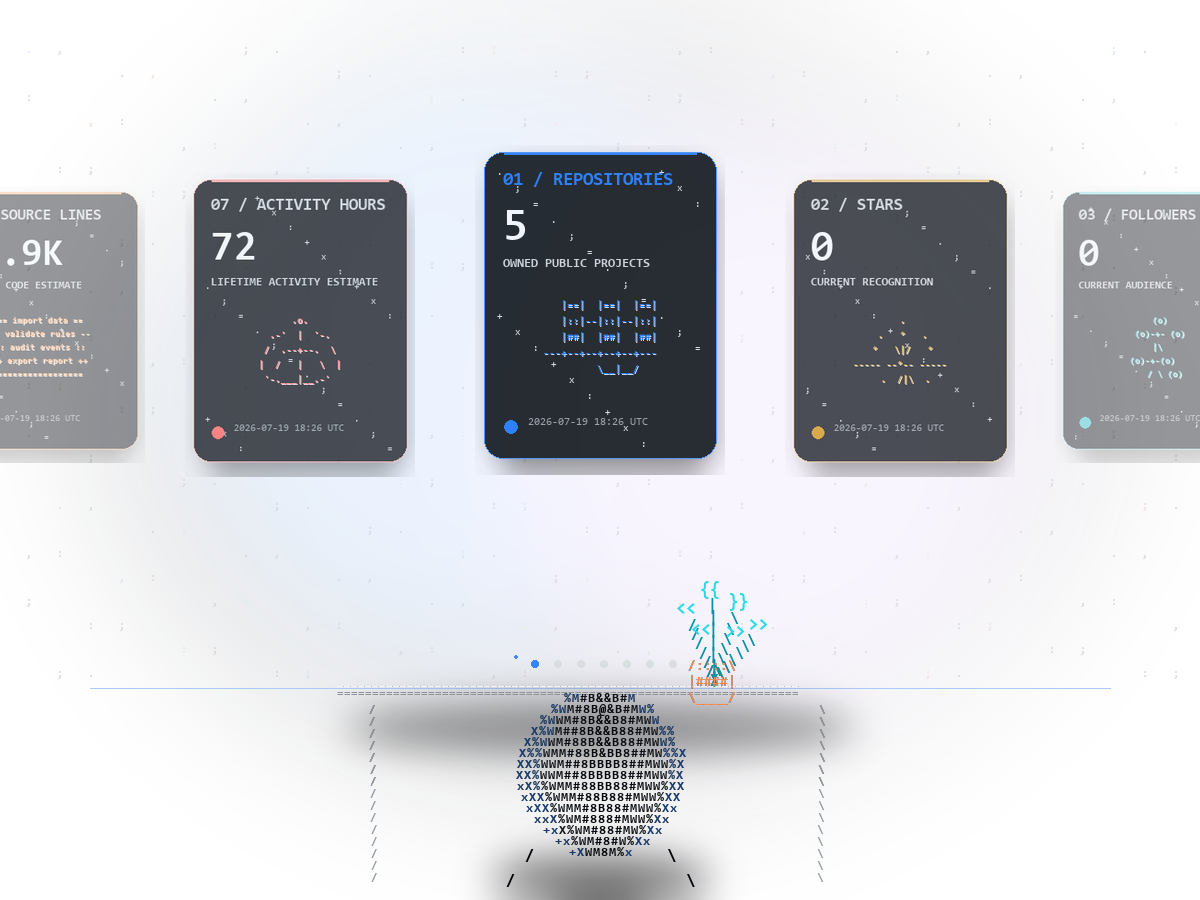
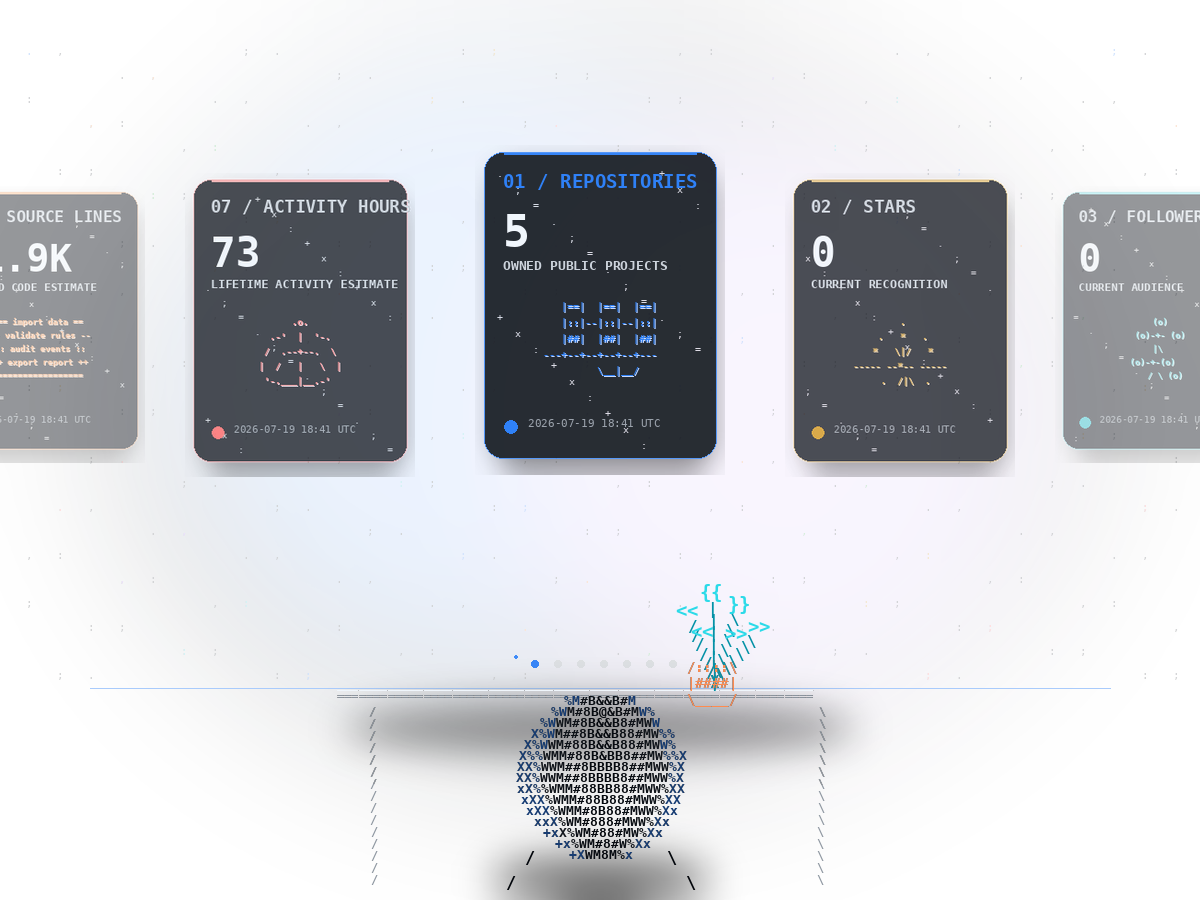
chore(profile): refresh live GitHub statistics

diff --git a/README.md b/README.md
@@ -32,10 +32,10 @@ No employer names, client names, branch/location names, private operational data
 <!-- LIVE_STATS_IMAGE_START -->
 <p align="center">
   <picture>
-    <source media="(prefers-reduced-motion: reduce) and (prefers-color-scheme: dark)" srcset="./assets/ascii-stats-gallery-color-dark-transparent-static.png?version=20260719182614-room-v1">
-    <source media="(prefers-reduced-motion: reduce)" srcset="./assets/ascii-stats-gallery-color-transparent-static.png?version=20260719182614-room-v1">
-    <source media="(prefers-color-scheme: dark)" srcset="./assets/ascii-stats-gallery-color-dark-transparent.gif?version=20260719182614-room-v1">
-    <img src="./assets/ascii-stats-gallery-color-transparent.gif?version=20260719182614-room-v1" width="100%" alt="Color-rich animated ASCII room on a transparent background presenting live GitHub statistics for Sha-Lai Berends through repositories, stars, followers, contributions, commits, estimated source lines and estimated GitHub activity hours." />
+    <source media="(prefers-reduced-motion: reduce) and (prefers-color-scheme: dark)" srcset="./assets/ascii-stats-gallery-color-dark-transparent-static.png?version=20260719184102">
+    <source media="(prefers-reduced-motion: reduce)" srcset="./assets/ascii-stats-gallery-color-transparent-static.png?version=20260719184102">
+    <source media="(prefers-color-scheme: dark)" srcset="./assets/ascii-stats-gallery-color-dark-transparent.gif?version=20260719184102">
+    <img src="./assets/ascii-stats-gallery-color-transparent.gif?version=20260719184102" width="100%" alt="Color-rich animated ASCII room on a transparent background presenting live GitHub statistics for Sha-Lai Berends through repositories, stars, followers, contributions, commits, estimated source lines and estimated GitHub activity hours." />
   </picture>
 </p>
 <!-- LIVE_STATS_IMAGE_END -->
